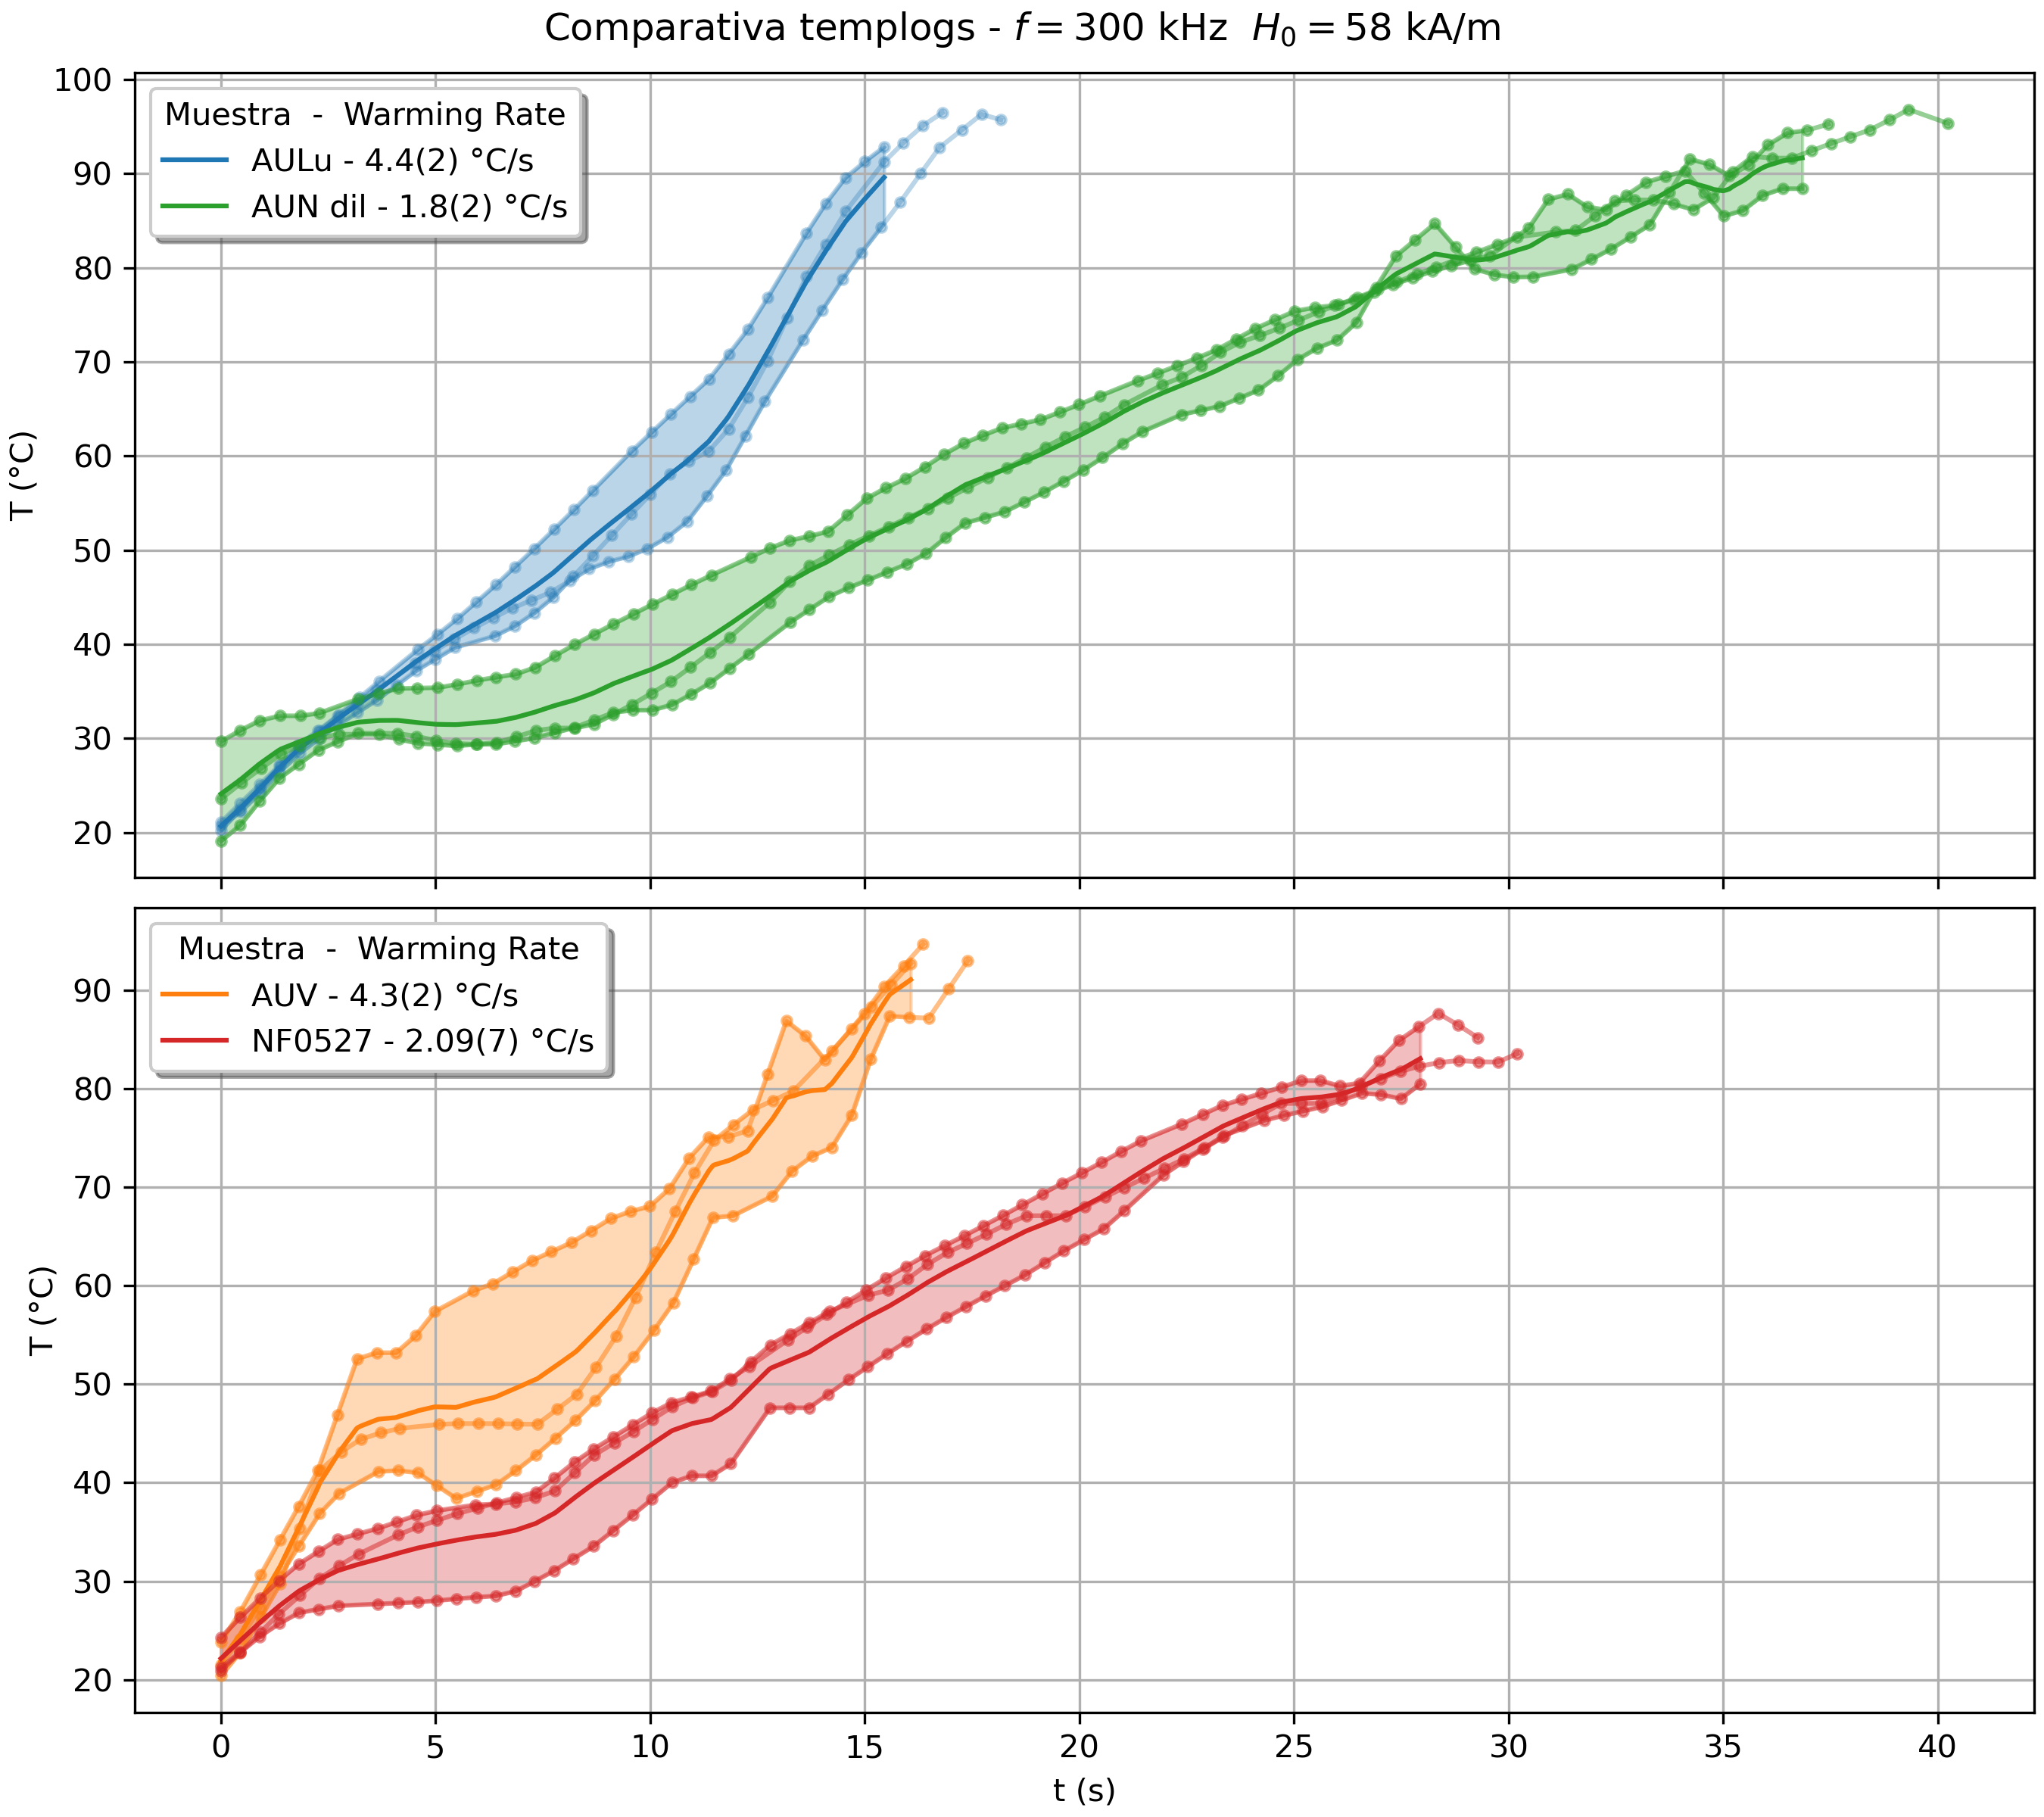
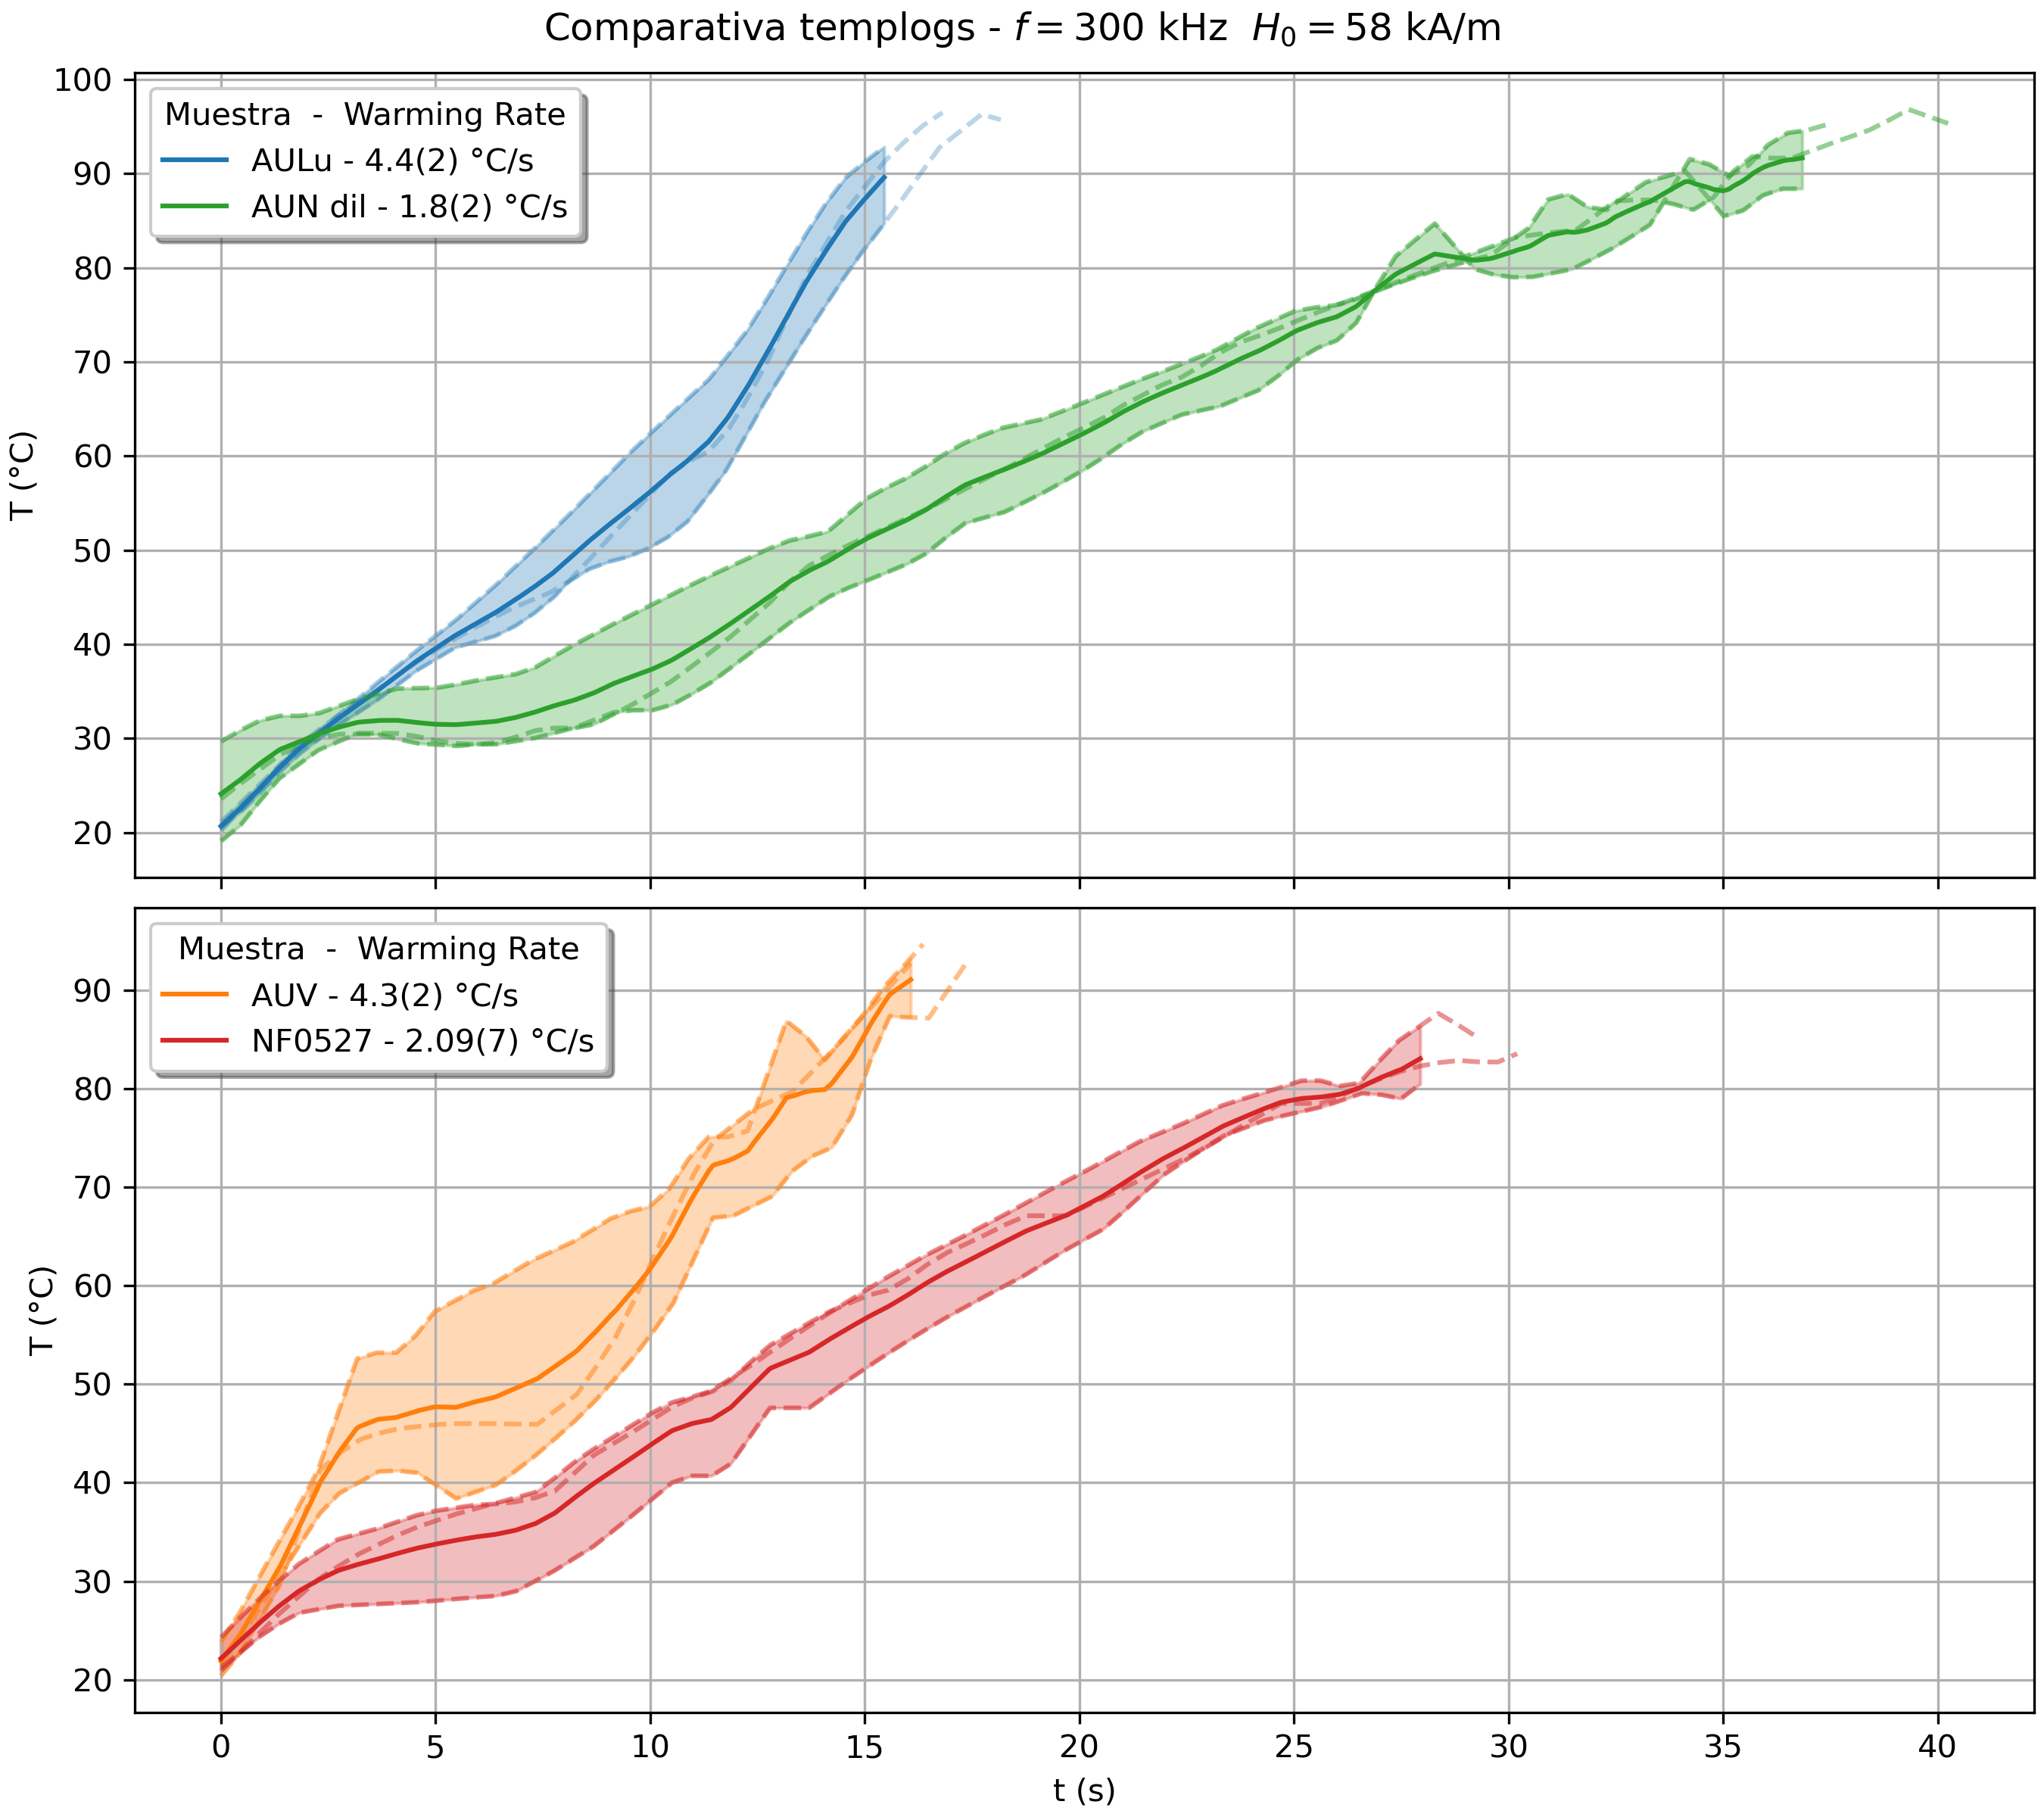
Ahora si

diff --git a/comparativa_sintesis_mayo.py b/comparativa_sintesis_mayo.py
@@ -1,4 +1,3 @@
-
 #%% Librerias y paquetes
 import numpy as np
 from uncertainties import ufloat, unumpy
@@ -8,8 +7,8 @@ from glob import glob
 import os
 import chardet
 import re
+from scipy.interpolate import interp1d
 from clase_resultados import ResultadosESAR
-
 #%% Lector de resultados
 def lector_resultados(path):
     '''
@@ -127,6 +126,59 @@ def extraer_SAR_tau(resultados):
         tau.append(meta['tau_ns'])
         Hc.append(meta['Hc_kA/m'])
     return SAR, tau, Hc
+#%% funcion banda temperatura
+def banda_temperatura(t, T, N=500, kind='linear'):
+    """
+    Interpola varias curvas T(t) sobre una grilla temporal común y
+    calcula estadísticas punto a punto.
+
+    Parameters
+    ----------
+    t : list of np.ndarray
+        Lista de vectores de tiempo.
+    T : list of np.ndarray
+        Lista de vectores de temperatura.
+    N : int, optional
+        Número de puntos de la grilla común.
+    kind : str, optional
+        Tipo de interpolación (interp1d).
+
+    Returns
+    -------
+    tt : list of np.ndarray
+        Lista original de tiempos.
+    TT : list of np.ndarray
+        Lista original de temperaturas.
+    t_common : np.ndarray
+        Grilla temporal común.
+    Tmin : np.ndarray
+        Temperatura mínima en cada instante.
+    Tmax : np.ndarray
+        Temperatura máxima en cada instante.
+    Tmean : np.ndarray
+        Temperatura promedio en cada instante.
+    """
+
+    # intervalo temporal común
+    tmin = max(tt.min() for tt in t)
+    tmax = min(tt.max() for tt in t)
+
+    t_common = np.linspace(tmin, tmax, N)
+
+    # interpolación
+    Ti = []
+    for tt, TT in zip(t, T):
+        f = interp1d(tt, TT, kind=kind)
+        Ti.append(f(t_common))
+
+    Ti = np.asarray(Ti)
+
+    # estadísticas
+    Tmin  = np.min(Ti, axis=0)
+    Tmax  = np.max(Ti, axis=0)
+    Tmean = np.mean(Ti, axis=0)
+
+    return t, T, t_common, Tmin, Tmax, Tmean
 #%% 1- 260604_NF-cit_260602_AULu_ESAR_c_Temp
 ciclos_AULu = glob("../260604_NF@cit_260602_AULu_ESAR_c_Temp/**/*ciclo_promedio_H_M.txt",recursive=True)
 resultados_AULu = glob("../260604_NF@cit_260602_AULu_ESAR_c_Temp/**/*resultados.txt",recursive=True)
@@ -156,7 +208,6 @@ ax.grid()
 ax.set_xlabel('H (kA/m)')
 ax.legend(loc='upper left',frameon=True,shadow=True,title='ESAR (W/g)')
 plt.suptitle(f'Comparativa ciclos promedio NF@cit 260527 AULu\n300 kHz & 58 kA/m')
-plt.savefig('0_ciclos_promedio_NF@cit_260527.png',dpi=300)
 
 print('Resultados AULu', '='*80,'\n')
 for r in resultados_AULu:
@@ -205,7 +256,6 @@ ax.grid()
 ax.set_xlabel('H (kA/m)')
 ax.legend(loc='upper left',frameon=True,shadow=True,title='ESAR (W/g)')
 plt.suptitle(f'Comparativa ciclos promedio NF@cit 260527 AUNdil\n300 kHz & 58 kA/m')
-plt.savefig('0_ciclos_promedio_NF@cit_260527.png',dpi=300)
 
 print('Resultados AUNdil', '='*80,'\n')
 for r in resultados_AUNdil:
@@ -253,8 +303,6 @@ ax.grid()
 ax.set_xlabel('H (kA/m)')
 ax.legend(loc='upper left',frameon=True,shadow=True,title='ESAR (W/g)')
 plt.suptitle(f'Comparativa ciclos promedio NF@cit 260527 AUV\n300 kHz & 58 kA/m')
-plt.savefig('0_ciclos_promedio_NF@cit_260527.png',dpi=300)
-
 
 res_AUV=[]
 print('Resultados AUV', '='*80,'\n')
@@ -291,7 +339,7 @@ for res in resultados_NF0527:
     print('  ',res)
 print('-'*50)
 SAR_NF0527, tau_NF0527, Hc_NF0527 = extraer_SAR_tau(resultados_NF0527)
-#%%
+
 #% ploteo
 fig40, ax =plt.subplots(figsize=(8,6),constrained_layout=True,sharey=True,sharex=True)
 ax.set_ylabel('M (A/m)')
@@ -303,7 +351,6 @@ ax.grid()
 ax.set_xlabel('H (kA/m)')
 ax.legend(loc='upper left',frameon=True,shadow=True,title='ESAR (W/g)')
 plt.suptitle(f'Comparativa ciclos promedio NF@cit 260527 NF0527\n300 kHz & 58 kA/m')
-plt.savefig('0_ciclos_promedio_NF@cit_260527.png',dpi=300)
 
 
 res_NF0527=[]
@@ -325,7 +372,7 @@ ax.set_ylabel('T (°C)')
 ax.set_xlabel('t (s)')
 ax.legend(loc='upper left',frameon=True,shadow=True,title='Warming Rate')
 plt.suptitle(f'Templogs NF@cit 260527 NF0527\n300 kHz & 58 kA/m')
-#%% Normalizo ciclos por concentracion y ploteo comparativo
+#%% 5- Normalizo ciclos por concentracion y ploteo comparativo
 
 fig5,(ax1,ax2,ax3,ax4)=plt.subplots(1,4,figsize=(18,5),constrained_layout=True,sharey=True)
 
@@ -356,8 +403,39 @@ for a in [ax1,ax2,ax3,ax4]:
     a.grid()
     a.legend(loc='upper left',frameon=True,shadow=True,title='ESAR (W/g)')
 
-#%%
-# %% ploteo comparativo de errorbars de ESAR
+#%% 6 ploteo comparativo de ciclos normalizados, excepto AULu
+
+fig6,(ax2,ax3,ax4)=plt.subplots(1,3,figsize=(15,5),constrained_layout=True,sharey=True)
+
+
+ax2.set_title(f'AUN diluida\n{conc_AUNdil} g/L')
+ax3.set_title(f'AUV\n{conc_AUV} g/L')
+ax4.set_title(f'NF0527\n{conc_NF0527} g/L')
+
+for i,_ in enumerate(ciclos_AULu):
+    _,_,_, H_AULu,M_AULu,_ = lector_ciclos(ciclos_AULu[i])
+    ax1.plot(H_AULu/1000,M_AULu/conc_AULu,'-',label=f'{SAR_AULu[i]:.3uS}')
+
+for j,_ in enumerate(ciclos_AUNdil):
+    _,_,_, H_AUNdil,M_AUNdil,_ = lector_ciclos(ciclos_AUNdil[j])
+    ax2.plot(H_AUNdil/1000,M_AUNdil/conc_AUNdil,'-',label=f'{SAR_AUNdil[j]:.3uS}')
+
+for k,_ in enumerate(ciclos_AUV):
+    _,_,_, H_AUV,M_AUV,_ = lector_ciclos(ciclos_AUV[k])
+    ax3.plot(H_AUV/1000,M_AUV/conc_AUV,'-',label=f'{SAR_AUV[k]:.3uS}')
+
+for m,_ in enumerate(ciclos_NF0527):
+    _,_,_, H_NF0527,M_NF0527,_ = lector_ciclos(ciclos_NF0527[m])
+    ax4.plot(H_NF0527/1000,M_NF0527/conc_NF0527,'-',label=f'{SAR_NF0527[m]:.3uS}')
+
+ax2.set_ylabel('M/[NPM] (Am²/kg)')
+for a in [ax2,ax3,ax4]:
+    a.set_xlabel('H (kA/m)')
+    a.grid()
+    a.legend(loc='upper left',frameon=True,shadow=True,title='ESAR (W/g)')
+
+
+#%% ploteo comparativo de errorbars de ESAR
 cuadro = '$f=300$ kHz\n$H_0=58$ kA/m'
 categorias = ['260602\nAULu', '260602\nAUN diluida', '260602\nAUV', '260527\nNF0527']
 x = np.arange(len(categorias))
@@ -471,61 +549,6 @@ ax.legend(loc='lower right',frameon=True,shadow=True,title='Muestra - Warming Ra
 ax.set_title('Comparativa templogs - $f=300$ kHz  $H_0=58$ kA/m')
 
 #%%
-import numpy as np
-from scipy.interpolate import interp1d
-
-def banda_temperatura(t, T, N=500, kind='linear'):
-    """
-    Interpola varias curvas T(t) sobre una grilla temporal común y
-    calcula estadísticas punto a punto.
-
-    Parameters
-    ----------
-    t : list of np.ndarray
-        Lista de vectores de tiempo.
-    T : list of np.ndarray
-        Lista de vectores de temperatura.
-    N : int, optional
-        Número de puntos de la grilla común.
-    kind : str, optional
-        Tipo de interpolación (interp1d).
-
-    Returns
-    -------
-    tt : list of np.ndarray
-        Lista original de tiempos.
-    TT : list of np.ndarray
-        Lista original de temperaturas.
-    t_common : np.ndarray
-        Grilla temporal común.
-    Tmin : np.ndarray
-        Temperatura mínima en cada instante.
-    Tmax : np.ndarray
-        Temperatura máxima en cada instante.
-    Tmean : np.ndarray
-        Temperatura promedio en cada instante.
-    """
-
-    # intervalo temporal común
-    tmin = max(tt.min() for tt in t)
-    tmax = min(tt.max() for tt in t)
-
-    t_common = np.linspace(tmin, tmax, N)
-
-    # interpolación
-    Ti = []
-    for tt, TT in zip(t, T):
-        f = interp1d(tt, TT, kind=kind)
-        Ti.append(f(t_common))
-
-    Ti = np.asarray(Ti)
-
-    # estadísticas
-    Tmin  = np.min(Ti, axis=0)
-    Tmax  = np.max(Ti, axis=0)
-    Tmean = np.mean(Ti, axis=0)
-
-    return t, T, t_common, Tmin, Tmax, Tmean
 #%%
 tt_1, TT_1, t_common_1, Tmin_1, Tmax_1, Tmean_1 = banda_temperatura(t1, T1)
 tt_2, TT_2, t_common_2, Tmin_2, Tmax_2, Tmean_2 = banda_temperatura(t2, T2)
@@ -537,22 +560,22 @@ labels = ['AULu', 'AUN dil', 'AUV', 'NF0527']
 fig7,(ax1,ax2) = plt.subplots(2,1,figsize=(9,8),constrained_layout=True,sharex=True)
 
 for t, T in zip(tt_1, TT_1):
-    ax1.plot(t, T, '.-', c='C0',alpha=0.3)
+    ax1.plot(t, T, '--', c='C0',alpha=0.3)
 ax1.fill_between(t_common_1, Tmin_1, Tmax_1,alpha=0.3,color='C0')
 ax1.plot(t_common_1, Tmean_1,'C0-', lw=1.5, label=f'{labels[0]} - {WR_AULu:.1uS} °C/s')
 
 for t, T in zip(tt_2, TT_2):
-    ax1.plot(t, T, '.-', c='C2',alpha=0.5)
+    ax1.plot(t, T, '--', c='C2',alpha=0.5)
 ax1.fill_between(t_common_2, Tmin_2, Tmax_2,color='C2',alpha=0.3)
 ax1.plot(t_common_2, Tmean_2,'C2', lw=1.5, label=f'{labels[1]} - {WR_AUNdil:.1uS} °C/s')
 
 for t, T in zip(tt_3, TT_3):
-    ax2.plot(t, T, '.-', c='C1',alpha=0.5)
+    ax2.plot(t, T, '--', c='C1',alpha=0.5)
 ax2.fill_between(t_common_3, Tmin_3, Tmax_3,alpha=0.3,color='C1')
 ax2.plot(t_common_3, Tmean_3,'C1', lw=1.5, label=f'{labels[2]} - {WR_AUV:.1uS} °C/s')
 
 for t, T in zip(tt_4, TT_4):
-    ax2.plot(t, T, '.-', c='C3',alpha=0.5)
+    ax2.plot(t, T, '--', c='C3',alpha=0.5)
 ax2.fill_between(t_common_4, Tmin_4, Tmax_4,alpha=0.3,color='C3')
 ax2.plot(t_common_4, Tmean_4,'C3', lw=1.5, label=f'{labels[3]} - {WR_NF0527:.1uS} °C/s')
 
@@ -565,16 +588,21 @@ plt.suptitle('Comparativa templogs - $f=300$ kHz  $H_0=58$ kA/m')
 plt.show()
 
 #%% Salvo figuras
-fig00.savefig('0_ciclos_promedio_AULu.png',dpi=300)
-fig01.savefig('1_templogs_AULu.png',dpi=300)
-fig20.savefig('2_ciclos_promedio_AUNdil.png',dpi=300)
-fig21.savefig('3_templogs_AUNdil.png',dpi=300)
-fig30.savefig('4_ciclos_promedio_AUV.png',dpi=300)
-fig31.savefig('5_templogs_AUV.png',dpi=300)
-fig40.savefig('6_ciclos_promedio_NF0527.png',dpi=300)
-fig41.savefig('7_templogs_NF0527.png',dpi=300)
-fig5.savefig('8_ciclos_promedio_normalizados.png',dpi=300)
-fig1.savefig('9_comparativa_ESAR.png',dpi=300)
+fig00.savefig('00_ciclos_promedio_AULu.png',dpi=300)
+fig01.savefig('01_templogs_AULu.png',dpi=300)
+
+fig20.savefig('02_ciclos_promedio_AUNdil.png',dpi=300)
+fig21.savefig('03_templogs_AUNdil.png',dpi=300)
+
+fig30.savefig('04_ciclos_promedio_AUV.png',dpi=300)
+fig31.savefig('05_templogs_AUV.png',dpi=300)
+
+fig40.savefig('06_ciclos_promedio_NF0527.png',dpi=300)
+fig41.savefig('07_templogs_NF0527.png',dpi=300)
+
+fig5.savefig('08_ciclos_promedio_normalizados.png',dpi=300)
+fig6.savefig('09_ciclos_promedio_normalizados_bis.png',dpi=300)
+fig1.savefig('09_comparativa_ESAR.png',dpi=300)
 fig2.savefig('10_comparativa_tau.png',dpi=300)
 fig3.savefig('11_comparativa_Hc.png',dpi=300)
 fig6.savefig('12_comparativa_templogs.png',dpi=300)